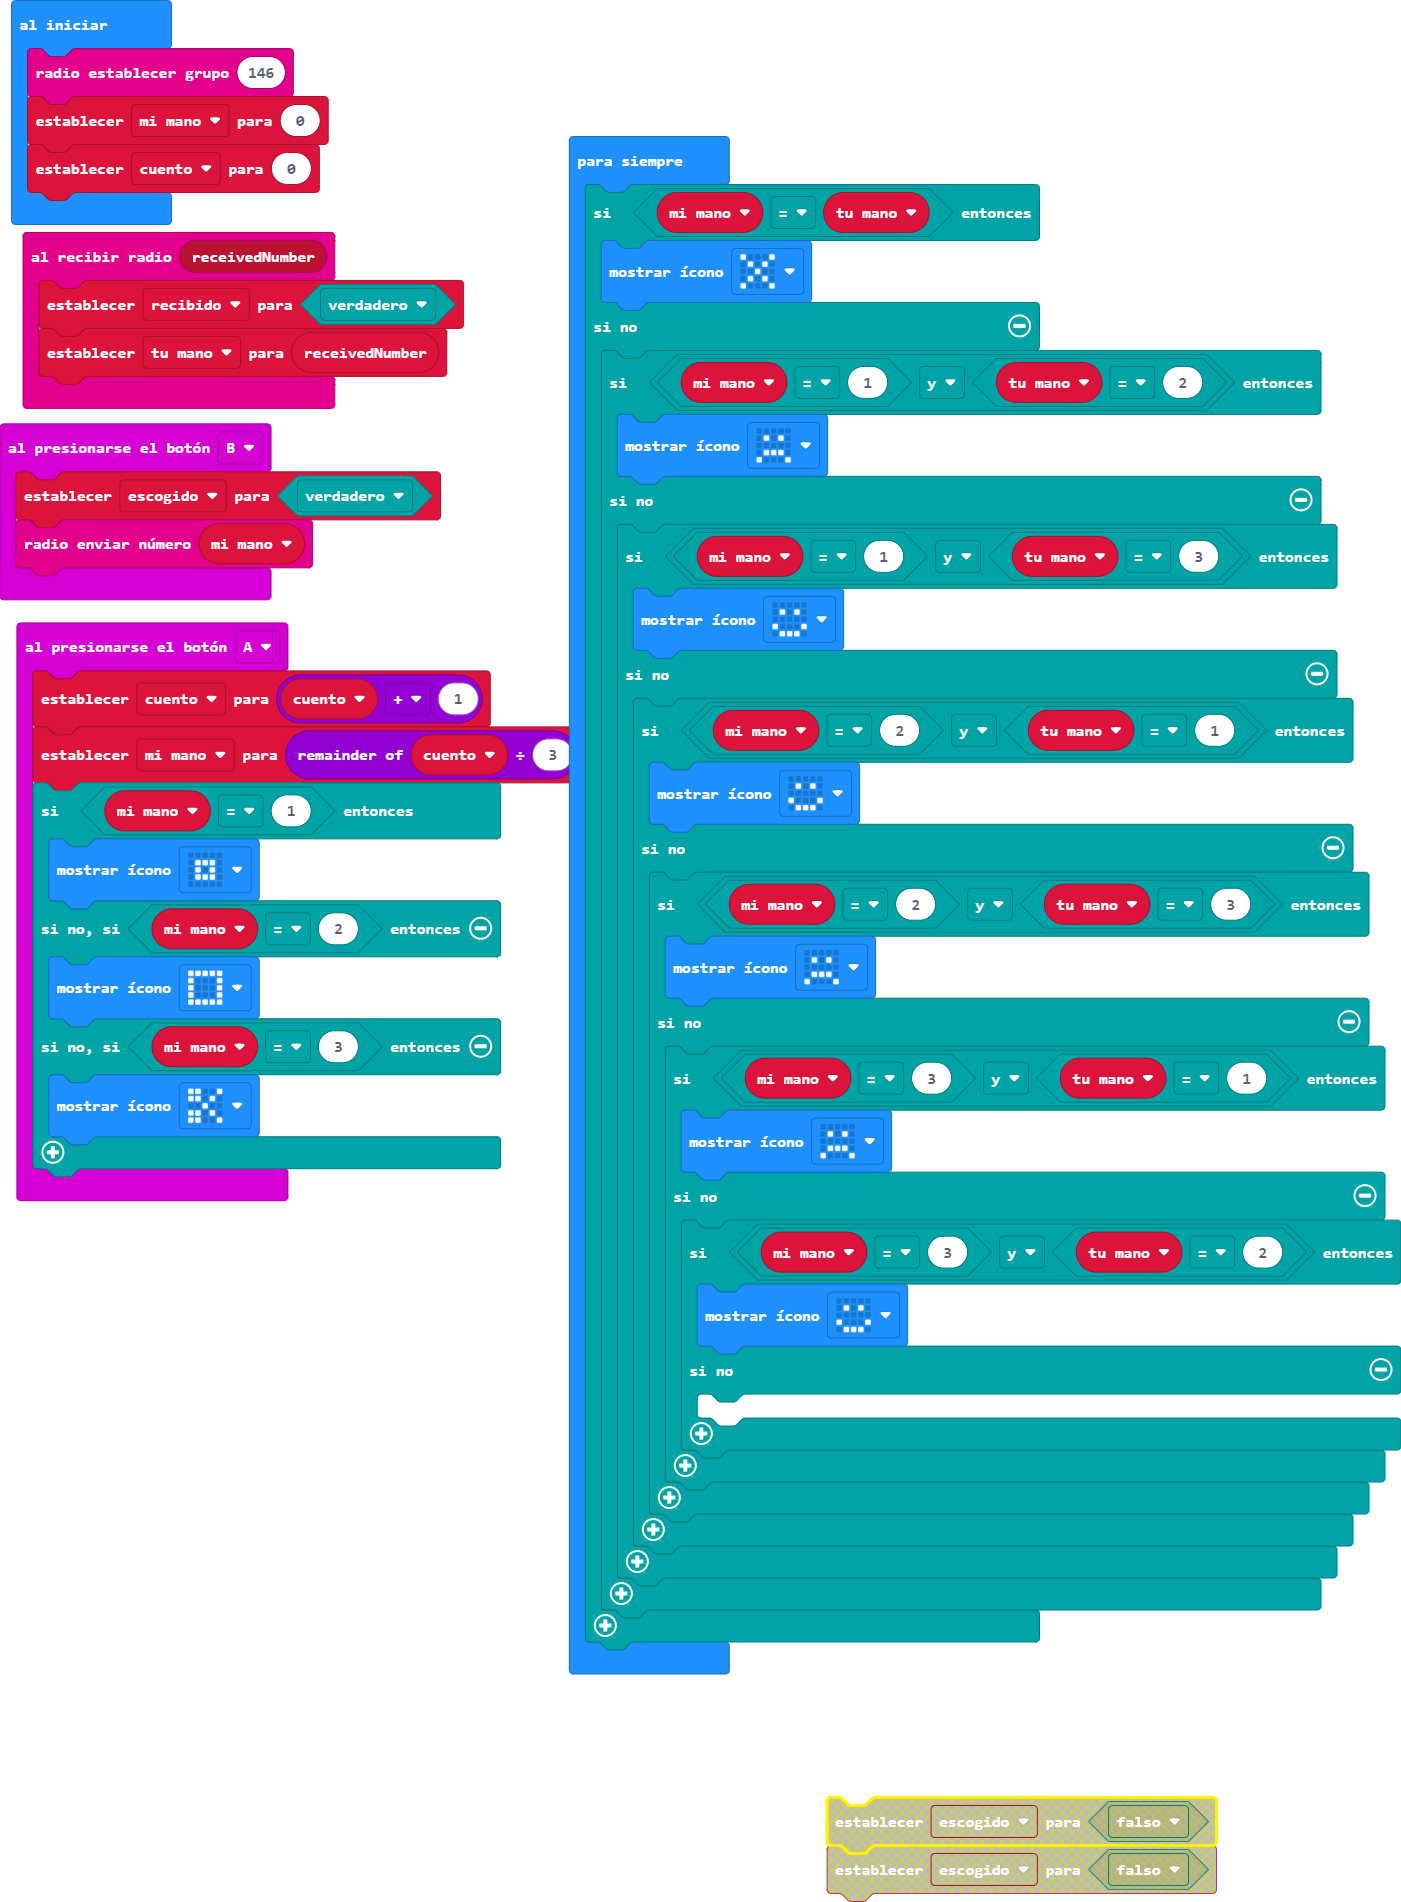
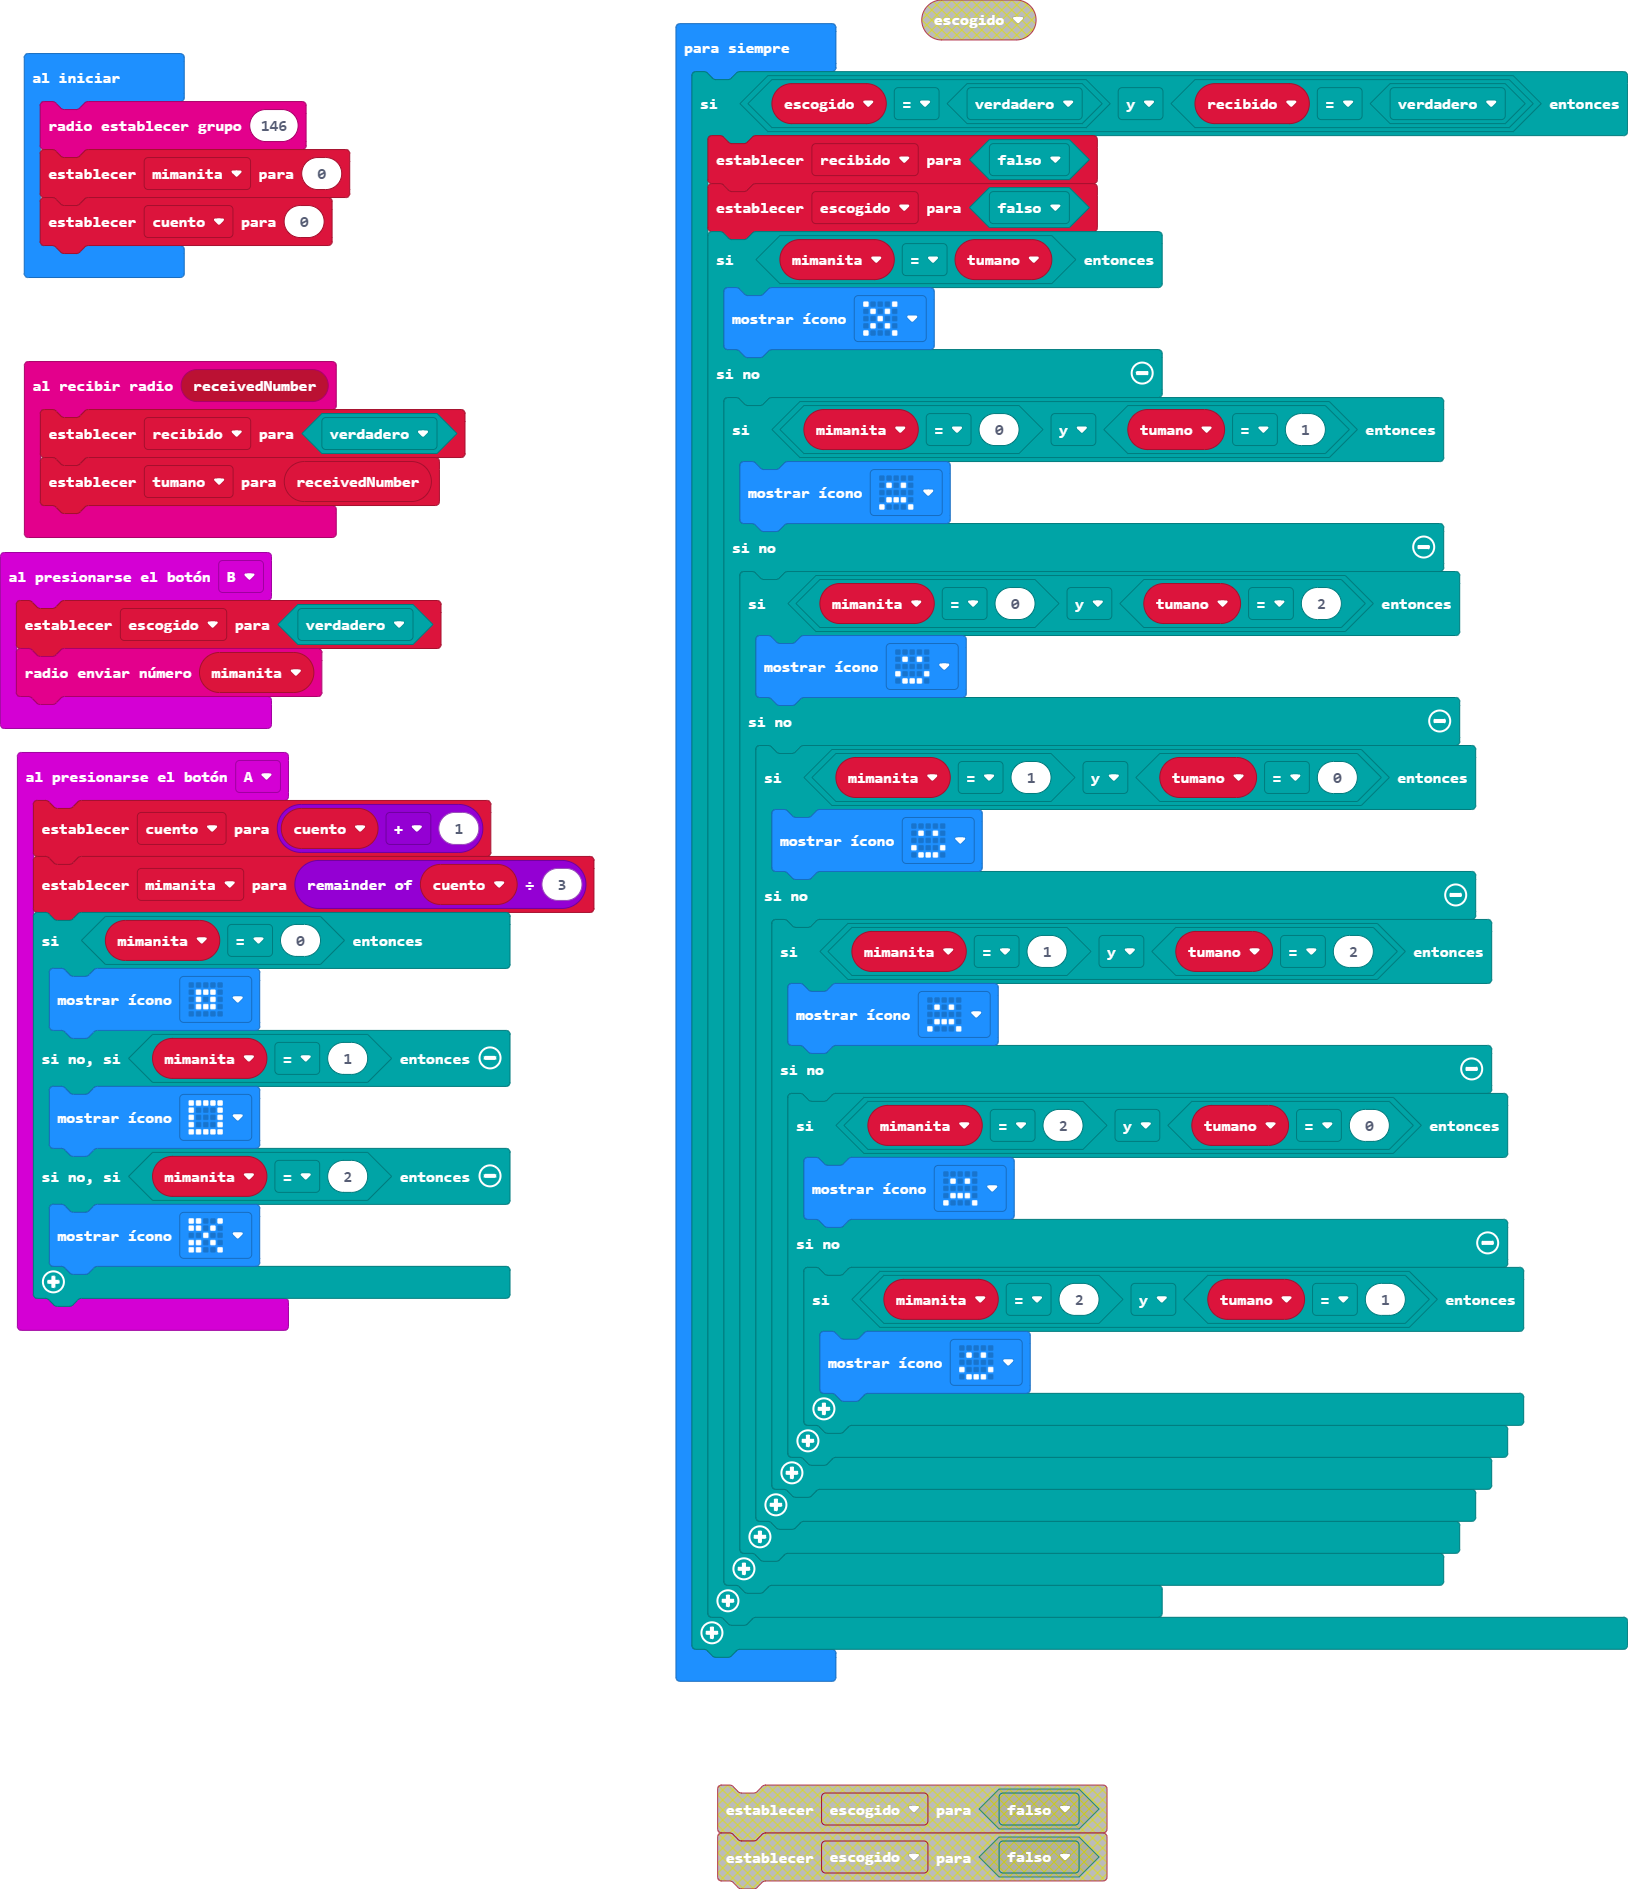
Actualizar main.blocks, main.ts

diff --git a/main.ts b/main.ts
@@ -1,53 +1,55 @@
 radio.onReceivedNumber(function (receivedNumber) {
     recibido = true
-    tu_mano = receivedNumber
+    tumano = receivedNumber
 })
 input.onButtonPressed(Button.A, function () {
     cuento = cuento + 1
-    mi_mano = cuento % 3
-    if (mi_mano == 1) {
+    mimanita = cuento % 3
+    if (mimanita == 0) {
         basic.showIcon(IconNames.SmallSquare)
-    } else if (mi_mano == 2) {
+    } else if (mimanita == 1) {
         basic.showIcon(IconNames.Square)
-    } else if (mi_mano == 3) {
+    } else if (mimanita == 2) {
         basic.showIcon(IconNames.Scissors)
     }
 })
 input.onButtonPressed(Button.B, function () {
     escogido = true
-    radio.sendNumber(mi_mano)
+    radio.sendNumber(mimanita)
 })
 let escogido = false
-let tu_mano = 0
+let tumano = 0
 let recibido = false
 let cuento = 0
-let mi_mano = 0
+let mimanita = 0
 radio.setGroup(146)
-mi_mano = 0
+mimanita = 0
 cuento = 0
 basic.forever(function () {
-    if (mi_mano == tu_mano) {
-        basic.showIcon(IconNames.No)
-    } else {
-        if (mi_mano == 1 && tu_mano == 2) {
-            basic.showIcon(IconNames.Sad)
+    if (escogido == true && recibido == true) {
+        recibido = false
+        escogido = false
+        if (mimanita == tumano) {
+            basic.showIcon(IconNames.No)
         } else {
-            if (mi_mano == 1 && tu_mano == 3) {
-                basic.showIcon(IconNames.Happy)
+            if (mimanita == 0 && tumano == 1) {
+                basic.showIcon(IconNames.Sad)
             } else {
-                if (mi_mano == 2 && tu_mano == 1) {
+                if (mimanita == 0 && tumano == 2) {
                     basic.showIcon(IconNames.Happy)
                 } else {
-                    if (mi_mano == 2 && tu_mano == 3) {
-                        basic.showIcon(IconNames.Sad)
+                    if (mimanita == 1 && tumano == 0) {
+                        basic.showIcon(IconNames.Happy)
                     } else {
-                        if (mi_mano == 3 && tu_mano == 1) {
+                        if (mimanita == 1 && tumano == 2) {
                             basic.showIcon(IconNames.Sad)
                         } else {
-                            if (mi_mano == 3 && tu_mano == 2) {
-                                basic.showIcon(IconNames.Happy)
+                            if (mimanita == 2 && tumano == 0) {
+                                basic.showIcon(IconNames.Sad)
                             } else {
-                            	
+                                if (mimanita == 2 && tumano == 1) {
+                                    basic.showIcon(IconNames.Happy)
+                                }
                             }
                         }
                     }
